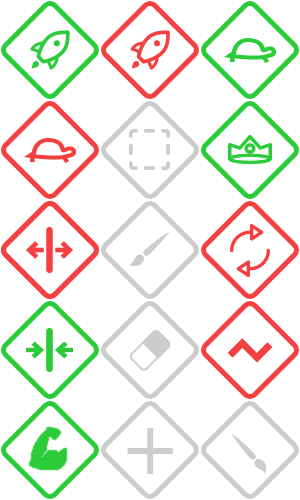
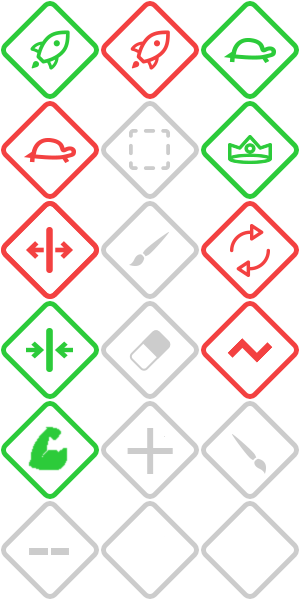
Add all dashed modifier

diff --git a/src/sass/pages/_room.scss b/src/sass/pages/_room.scss
@@ -589,7 +589,7 @@
                 height: $bonus-size;
                 display: inline-block;
                 background: url(../images/bonus.png) no-repeat transparent;
-                background-size: $bonus-size*3 $bonus-size*5;
+                background-size: $bonus-size*3 $bonus-size*6;
                 position: relative;
                 text-align: center;
                 color: #FFF;
@@ -644,6 +644,9 @@
                 }
                 &.bonus-all-color-black {
                     @include bonus-sprite(2, 4);
+                }
+                &.bonus-all-dashed {
+                    @include bonus-sprite(0, 5);
                 }
 
                 i {

diff --git a/src/server/model/BonusStack.js b/src/server/model/BonusStack.js
@@ -60,6 +60,9 @@ BonusStack.prototype.apply = function(property, value)
         case 'color':
             this.target.setColor(value);
             break;
+        case 'dashed':
+            this.target.printManager.holeDistance = value;
+            break;
         default:
             BaseBonusStack.prototype.apply.call(this, property, value);
             break;
@@ -82,6 +85,8 @@ BonusStack.prototype.getDefaultProperty = function(property)
             return 0;
         case 'color':
             return this.target.player.color;
+        case 'dashed':
+            return 5;
         default:
             return Avatar.prototype[property];
     }

diff --git a/src/server/model/Bonus/BonusAllDashed.js b/src/server/model/Bonus/BonusAllDashed.js
@@ -1,0 +1,33 @@
+/**
+ * All Dashed
+ *
+ * @param {Number} x
+ * @param {Number} y
+ */
+function BonusAllDashed(x, y)
+{
+    BonusAll.call(this, x, y);
+}
+
+BonusAllDashed.prototype = Object.create(BonusAll.prototype);
+BonusAllDashed.prototype.constructor = BonusAllDashed;
+
+/**
+ * Duration
+ *
+ * @type {Number}
+ */
+BonusAllDashed.prototype.duration = 7500;
+
+/**
+ * Get effects
+ *
+ * @param {Avatar} avatar
+ *
+ * @return {Array}
+ */
+BonusAllDashed.prototype.getEffects = function(avatar)
+{
+    return [['dashed', 10]];
+};
+

diff --git a/src/client/manager/BonusManager.js b/src/client/manager/BonusManager.js
@@ -12,7 +12,7 @@ function BonusManager(game)
     this.onLoad = this.onLoad.bind(this);
 
     this.loaded = false;
-    this.sprite = new SpriteAsset('images/bonus.png', 3, 5, this.onLoad, true);
+    this.sprite = new SpriteAsset('images/bonus.png', 3, 6, this.onLoad, true);
 }
 
 BonusManager.prototype = Object.create(BaseBonusManager.prototype);
@@ -46,6 +46,7 @@ BonusManager.prototype.spritePosition = [
     'BonusSelfInvincible',
     'BonusGameProbability',
     'BonusAllColorBlack',
+    'BonusAllDashed',
 ];
 
 /**

diff --git a/src/client/model/RoomConfig.js b/src/client/model/RoomConfig.js
@@ -34,7 +34,8 @@ RoomConfig.prototype.bonusClasses = {
     BonusGameClear: 'bonus-all-clear',
     BonusSelfInvincible: 'bonus-self-invincible',
     BonusGameProbability: 'bonus-game-probability',
-    BonusAllColorBlack:'bonus-all-color-black',
+    BonusAllColorBlack: 'bonus-all-color-black',
+    BonusAllDashed: 'bonus-all-dashed',
 };
 
 /**

diff --git a/src/server/model/RoomConfig.js b/src/server/model/RoomConfig.js
@@ -32,6 +32,7 @@ RoomConfig.prototype.bonusTypes = {
     BonusSelfInvincible: BonusSelfInvincible,
     BonusGameProbability: BonusGameProbability,
     BonusAllColorBlack: BonusAllColorBlack,
+    BonusAllDashed: BonusAllDashed,
 };
 
 /**

diff --git a/src/shared/model/BaseRoomConfig.js b/src/shared/model/BaseRoomConfig.js
@@ -30,6 +30,7 @@ function BaseRoomConfig(room)
         BonusSelfInvincible: true,
         BonusGameProbability: true,
         BonusAllColorBlack: true,
+        BonusAllDashed: true,
     };
 }
 

diff --git a/src/client/model/preset/DefaultPreset.js b/src/client/model/preset/DefaultPreset.js
@@ -37,4 +37,5 @@ DefaultPreset.prototype.bonuses = [
     'BonusGameClear',
     'BonusGameProbability',
     'BonusAllColorBlack',
+    'BonusAllDashed',
 ];
